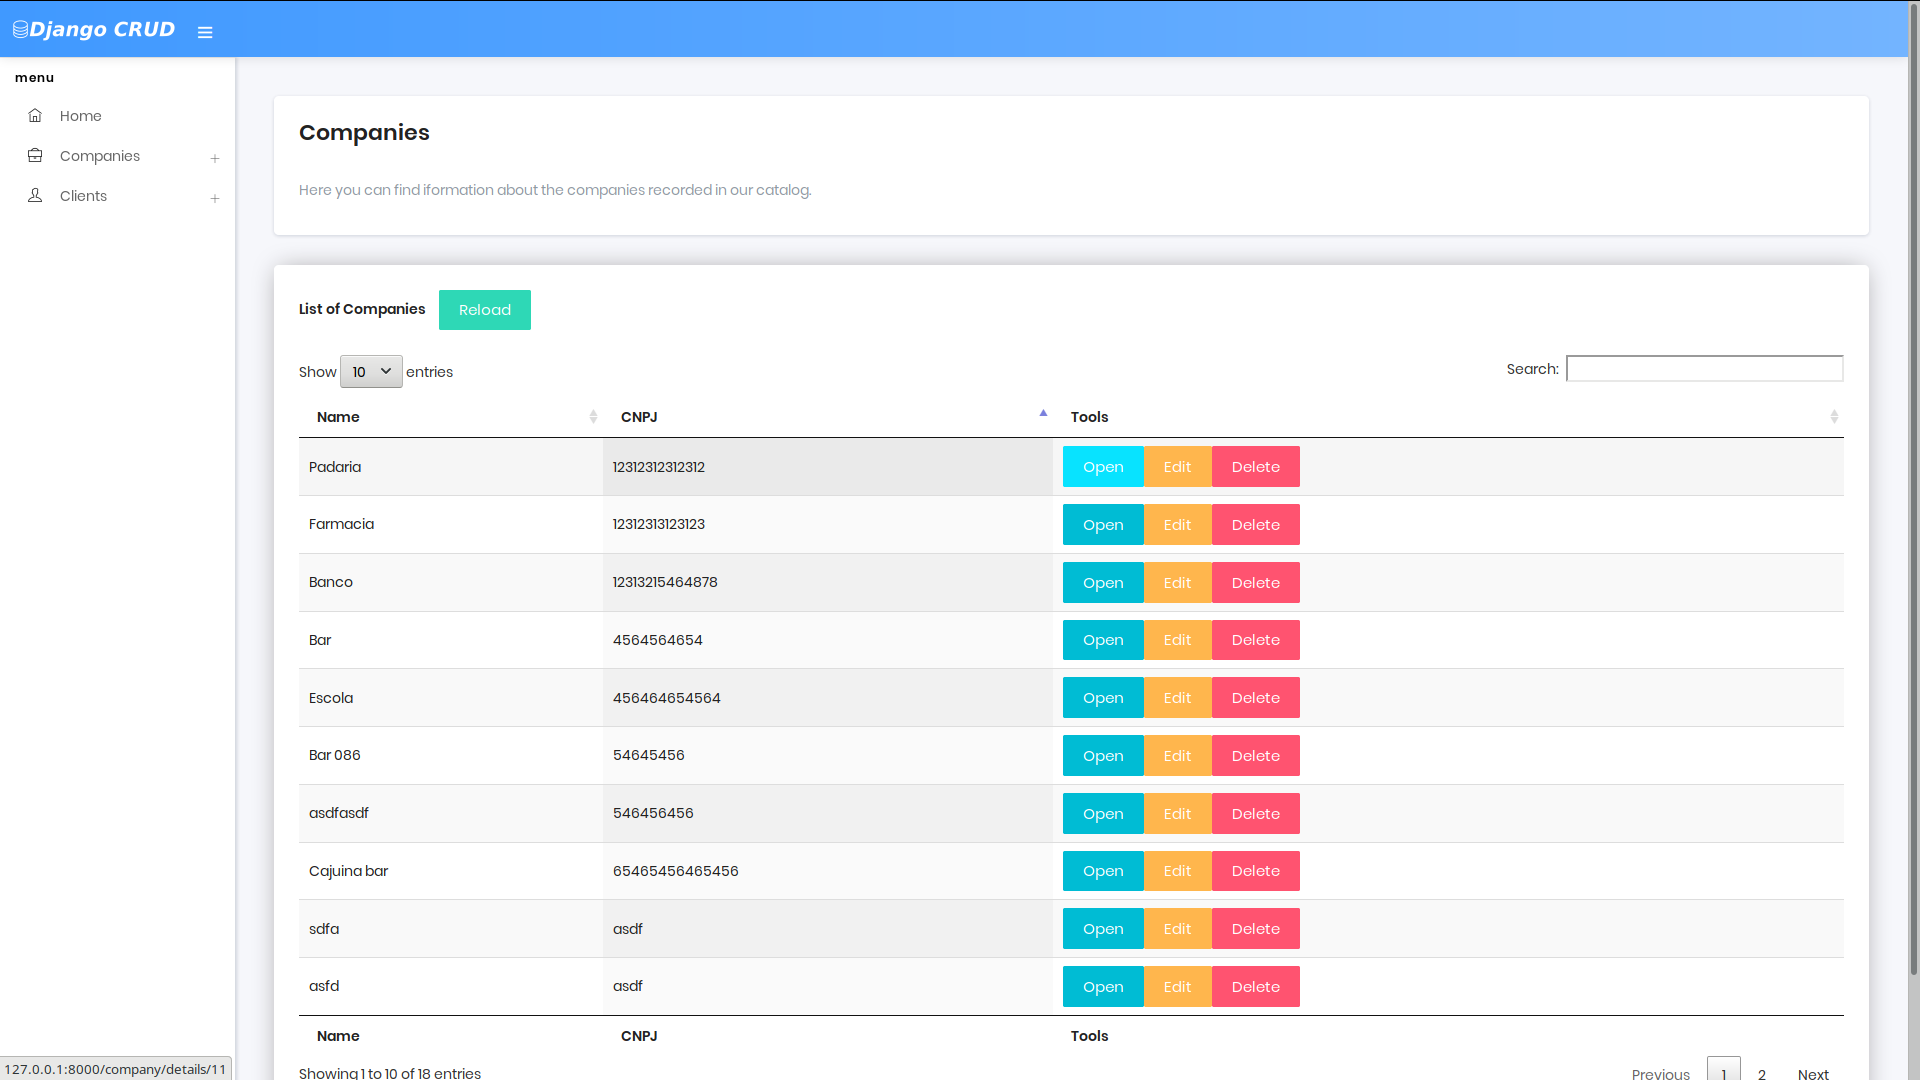
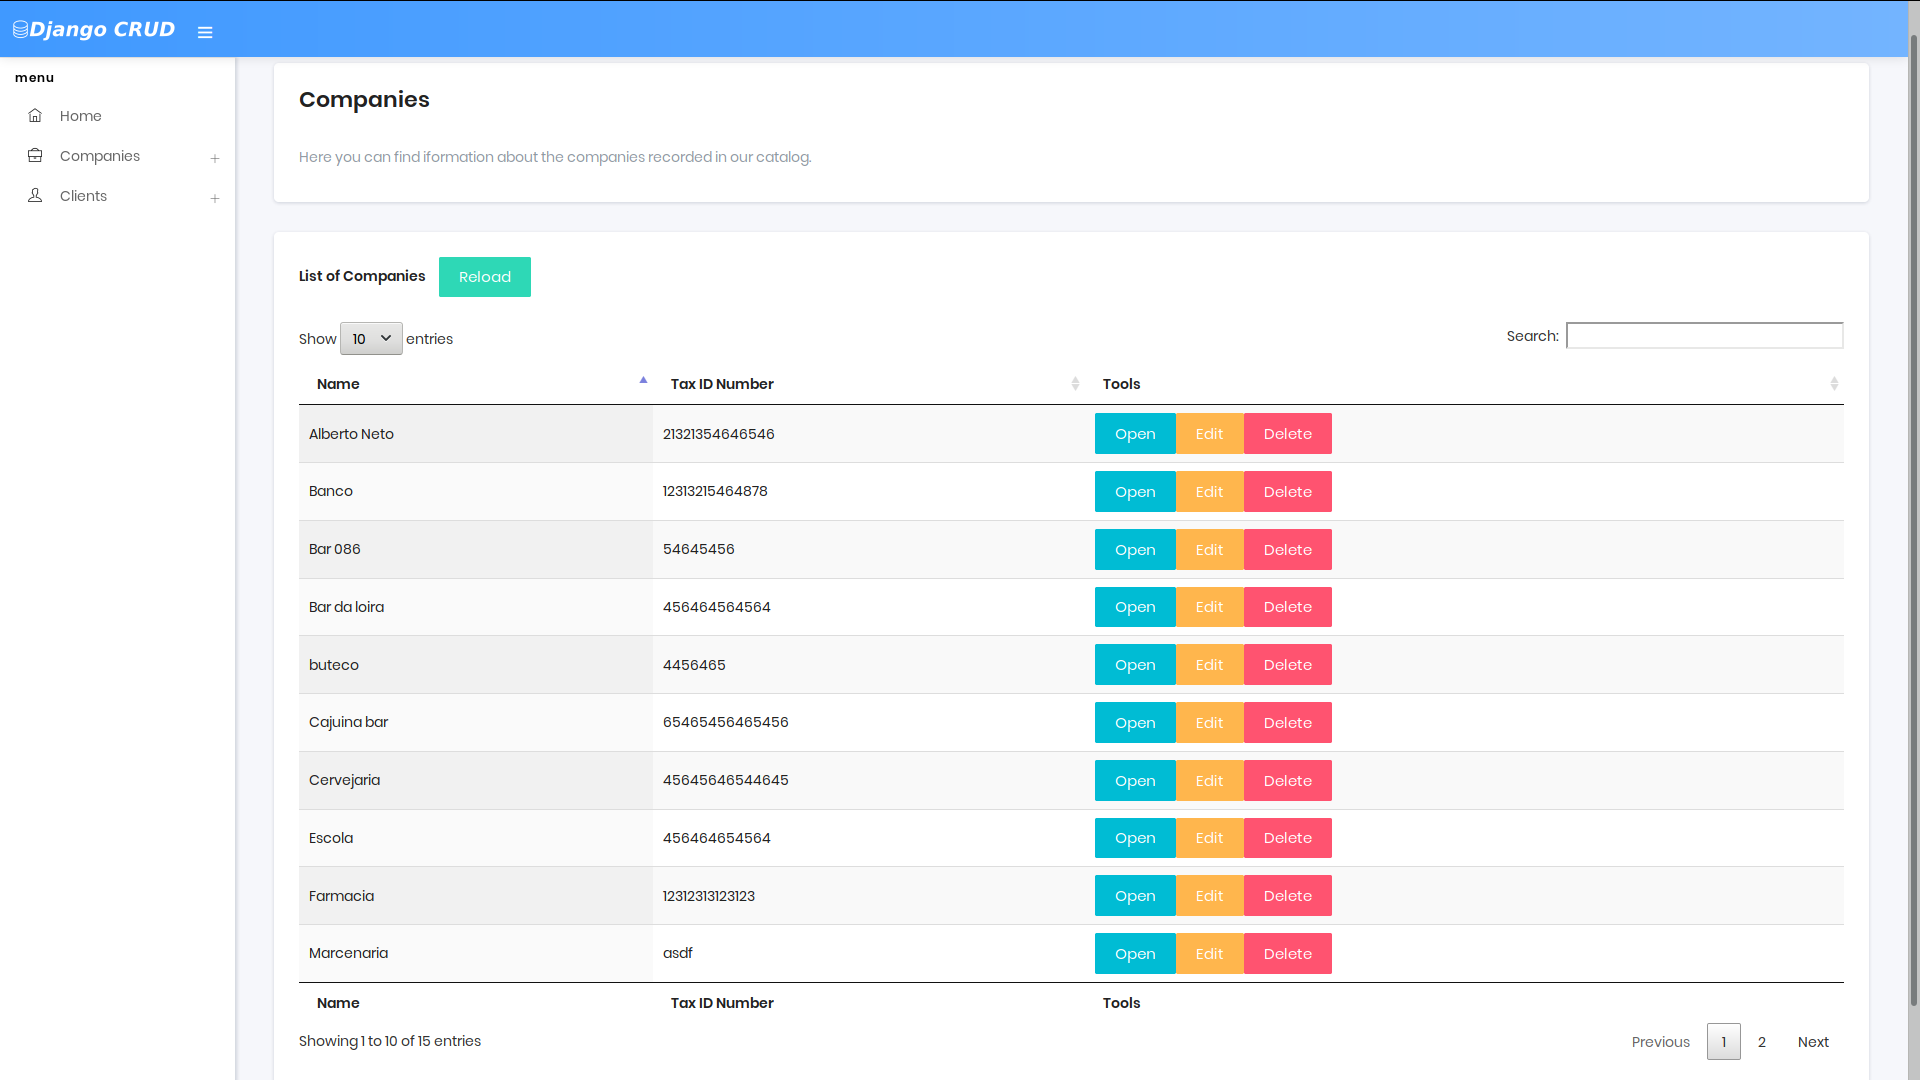
Fixed layout of New Company form.

diff --git a/crudProject/company/templates/company/company_create.html b/crudProject/company/templates/company/company_create.html
@@ -1,6 +1,7 @@
 {% extends "base.html" %}
 {% load static %}
 {% load crispy_forms_tags %}
+{% crispy company_form %}
 {% block header %}
 {% endblock header %}
 
@@ -37,18 +38,50 @@
         </div>
 
         <div class="card-block">
-            <form id="companyForm" method="POST" enctype="multipart/form-data">
+        {% crispy companyForm %}
+            {% comment %} <form id="companyForm" method="POST" enctype="multipart/form-data">
                 {% csrf_token %}
-                <fieldset>
-                    <legend>Company info</legend>
-                    {{ companyForm.as_p }}
-                </fieldset>
+                <!-- {{ companyForm|crispy }} -->
+                <div class="form-row">
+                    <div class="form-group col-md-4 mb-0">
+                        {{ companyForm.name|as_crispy_field }}
+                    </div>
+                    <div class="form-group col-md-3 mb-0">
+                        {{ companyForm.cnpj|as_crispy_field }}
+                    </div>
 
-
-
+                </div>
+                <h4>Main Address</h4>
+                <div class="form-row">
+                    <div class="form-group col-md-4 mb-0">
+                        {{ companyForm.line1|as_crispy_field }}
+                    </div>
+                    <div class="form-group col-md-3 mb-0">
+                        {{ companyForm.line2|as_crispy_field }}
+                    </div>
+                </div>
+                <div class="form-row">
+                    <div class="form-group col-md-1 mb-0">
+                        {{ companyForm.zipCode|as_crispy_field }}
+                    </div>
+                    <div class="form-group col-md-2 mb-0">
+                        {{ companyForm.city|as_crispy_field }}
+                    </div>
+                    <div class="form-group col-md-2 mb-0">
+                        {{ companyForm.state|as_crispy_field }}
+                    </div>
+                    <div class="form-group col-md-2 mb-0">
+                        {{ companyForm.country|as_crispy_field }}
+                    </div>
+                </div>
+                <div class="form-row">
+                    <div class="form-group col-md-4 mb-0">
+                        {{ companyForm.logo|as_crispy_field }}
+                    </div>
+                </div>
 
                 <button type="submit" class="btn btn-primary">Register</button>
-            </form>
+            </form> {% endcomment %}
         </div>
     </div>
 </div>

diff --git a/crudProject/company/templates/company/company_list.html b/crudProject/company/templates/company/company_list.html
@@ -39,14 +39,14 @@
                 <thead>
                     <tr>
                         <th>Name</th>
-                        <th>CNPJ</th>
+                        <th>Tax ID Number</th>
                         <th>Tools</th>
                     </tr>
                 </thead>
                 <tfoot>
                     <tr>
                         <th>Name</th>
-                        <th>CNPJ</th>
+                        <th>Tax ID Number</th>
                         <th>Tools</th>
                     </tr>
                 </tfoot>

diff --git a/crudProject/company/templates/company/company_details.html b/crudProject/company/templates/company/company_details.html
@@ -50,7 +50,7 @@
                     <!-- Tab panes -->
                     <div class="tab-content tabs card-block">
                         <div class="tab-pane active" id="home1" role="tabpanel" aria-expanded="true">
-                            <p class="m-0"><strong>CNPJ:</strong> {{ company.cnpj }}</p>
+                            <p class="m-0"><strong>Tax ID Number: </strong> {{ company.cnpj }}</p>
                             <img class="account-img" src="{{ company.logo.url }}">
 
                         </div>

diff --git a/crudProject/company/templates/company/custom_imagefield.html b/crudProject/company/templates/company/custom_imagefield.html
@@ -1,0 +1,9 @@
+{% load crispy_forms_field %}
+<div class="form-group">
+    <div id="div_id_logo" class="form-group">
+        <label for="{{ field.id_for_label }}" class="">{{ field.label }}</label>
+        <div class="custom-file ">
+            {% crispy_field field 'class' '' %}
+        </div>
+    </div>
+</div>

diff --git a/crudProject/company/forms.py b/crudProject/company/forms.py
@@ -1,17 +1,89 @@
 from django import forms
 from .models import Company, CompanyAddress
 from crispy_forms.helper import FormHelper
-from crispy_forms.layout import Layout, Field
-from crispy_forms.bootstrap import FieldWithButtons, StrictButton
+from crispy_forms.layout import Layout, Submit, Row, Column
+# from crispy_forms.layout import Layout, Field, Div, MultiField, Submit
+# from crispy_forms.bootstrap import FieldWithButtons, StrictButton
+from crispy_forms.layout import Field
+
+
+class CustomImageField(Field):
+    template = 'company/custom_imagefield.html'
+# class Row(Div):
+#     css_class = "form-row"
 
 
 class CompanyForm(forms.ModelForm):
+    cnpj = forms.CharField(label='Tax ID Number',
+                           widget=forms.TextInput(attrs={'size': '15'}))
+
+    line1 = forms.CharField(
+        label='Address',
+        widget=forms.TextInput(attrs={'placeholder': 'Street and Number'})
+    )
+    line2 = forms.CharField(
+        label=' ',
+        widget=forms.TextInput(
+            attrs={'placeholder': 'Apartment, studio, or floor'})
+    )
 
     class Meta:
         model = Company
-        fields = ['name', 'cnpj', 'line1',
-                  'line2', 'zipCode', 'city', 'state', 'country', 'logo']
+        fields = ('name', 'cnpj', 'line1',
+                  'line2', 'zipCode', 'city', 'state', 'country', 'logo')
 
+    def __init__(self, *args, **kwargs):
+        super().__init__(*args, **kwargs)
+        self.helper = FormHelper()
+        self.helper.form_id = 'companyForm'
+        self.helper.layout = Layout(
+            Row(
+                Column('name', css_class='form-group col-md-6 mb-0'),
+                Column('cnpj', css_class='form-group col-md-6 mb-0'),
+                css_class='form-row'
+            ),
+            Row(
+                Column('line1', css_class='form-group col-md-6 mb-0'),
+                Column('line2', css_class='form-group col-md-6 mb-0'),
+                css_class='form-row'
+            ),
+            Row(
+                Column('zipCode', css_class='form-group col-md-2 mb-0'),
+                Column('city', css_class='form-group col-md-2 mb-0'),
+                Column('state', css_class='form-group col-md-4 mb-0'),
+                Column('country', css_class='form-group col-md-4 mb-0'),
+                css_class='form-row'
+            ),
+
+            CustomImageField('logo'),  # <-- Here
+            Submit('submit', 'Register')
+        )
+
+
+# Layout(
+#             MultiField(
+#                 Div(
+#                     Div('name', css_class='span6'),
+#                     Div('cnpj', css_class='span6'),
+#                     css_class='beto'),
+#                 Div(
+#                     Div('line1', css_class='span6'),
+#                     Div('line2', css_class='span6'),
+#                     css_class='row-fluid'),
+#                 Div(
+#                     Div('zipCode', css_class='span6'),
+#                     Div('city', css_class='span6'),
+#                     css_class='row-fluid'),
+#                 Div(
+#                     Div('state', css_class='span6'),
+#                     Div('country', css_class='span6'),
+#                     css_class='row-fluid'),
+#                 Div(
+#                     Div('logo', css_class='span6'),
+#                     css_class='row-fluid'),
+#             )
+#         )
+# FieldWithButtons('field_name', StrictButton("Go!"))
 
 class CompanyAddressForm(forms.ModelForm):
     class Meta:
